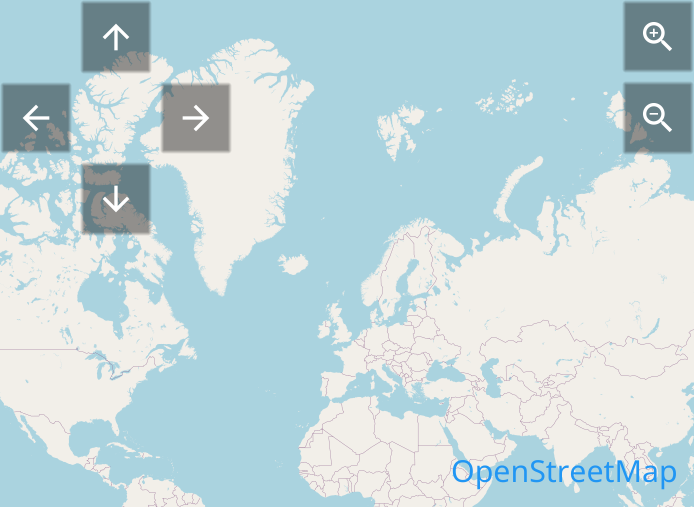
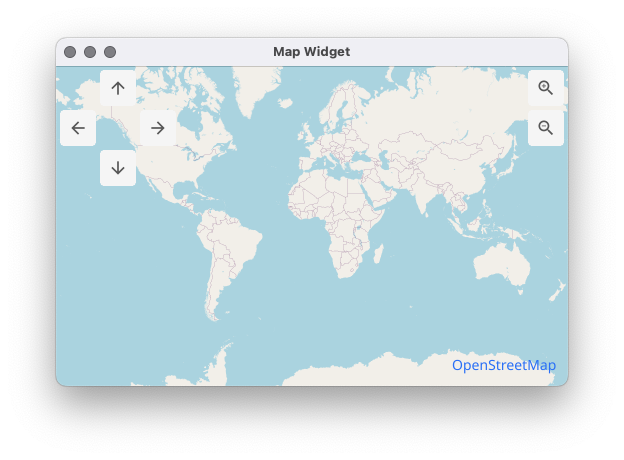
Improvements to map layout and match previous demo setup

diff --git a/widget/map.go b/widget/map.go
@@ -195,14 +195,13 @@ func (m *Map) CreateRenderer() fyne.WidgetRenderer {
 	var copyright fyne.CanvasObject
 	if !m.hideAttribution {
 		license, _ := url.Parse(m.attributionURL)
-		view := widget.NewHyperlink(m.attributionLabel, license)
-		view.Alignment = fyne.TextAlignTrailing
-		copyright = view
+		link := widget.NewHyperlink(m.attributionLabel, license)
+		copyright = container.NewHBox(layout.NewSpacer(), link)
 	}
 
 	overlay := container.NewBorder(nil, copyright, move, zoom)
 
-	c := container.NewMax(canvas.NewRaster(m.draw), overlay)
+	c := container.NewMax(canvas.NewRaster(m.draw), container.NewPadded(overlay))
 	return widget.NewSimpleRenderer(c)
 }
 

diff --git a/cmd/map_demo/main.go b/cmd/map_demo/main.go
@@ -12,12 +12,13 @@ func main() {
 
 	m := xwidget.NewMapWithOptions(
 		xwidget.WithOsmTiles(),
-		xwidget.WithZoomButtons(false),
+		xwidget.WithZoomButtons(true),
 		xwidget.WithScrollButtons(true),
 	)
+	m.ZoomIn()
 	w.SetContent(m)
 
 	w.SetPadded(false)
-	w.Resize(fyne.NewSize(256, 256))
+	w.Resize(fyne.NewSize(512, 320))
 	w.ShowAndRun()
 }
